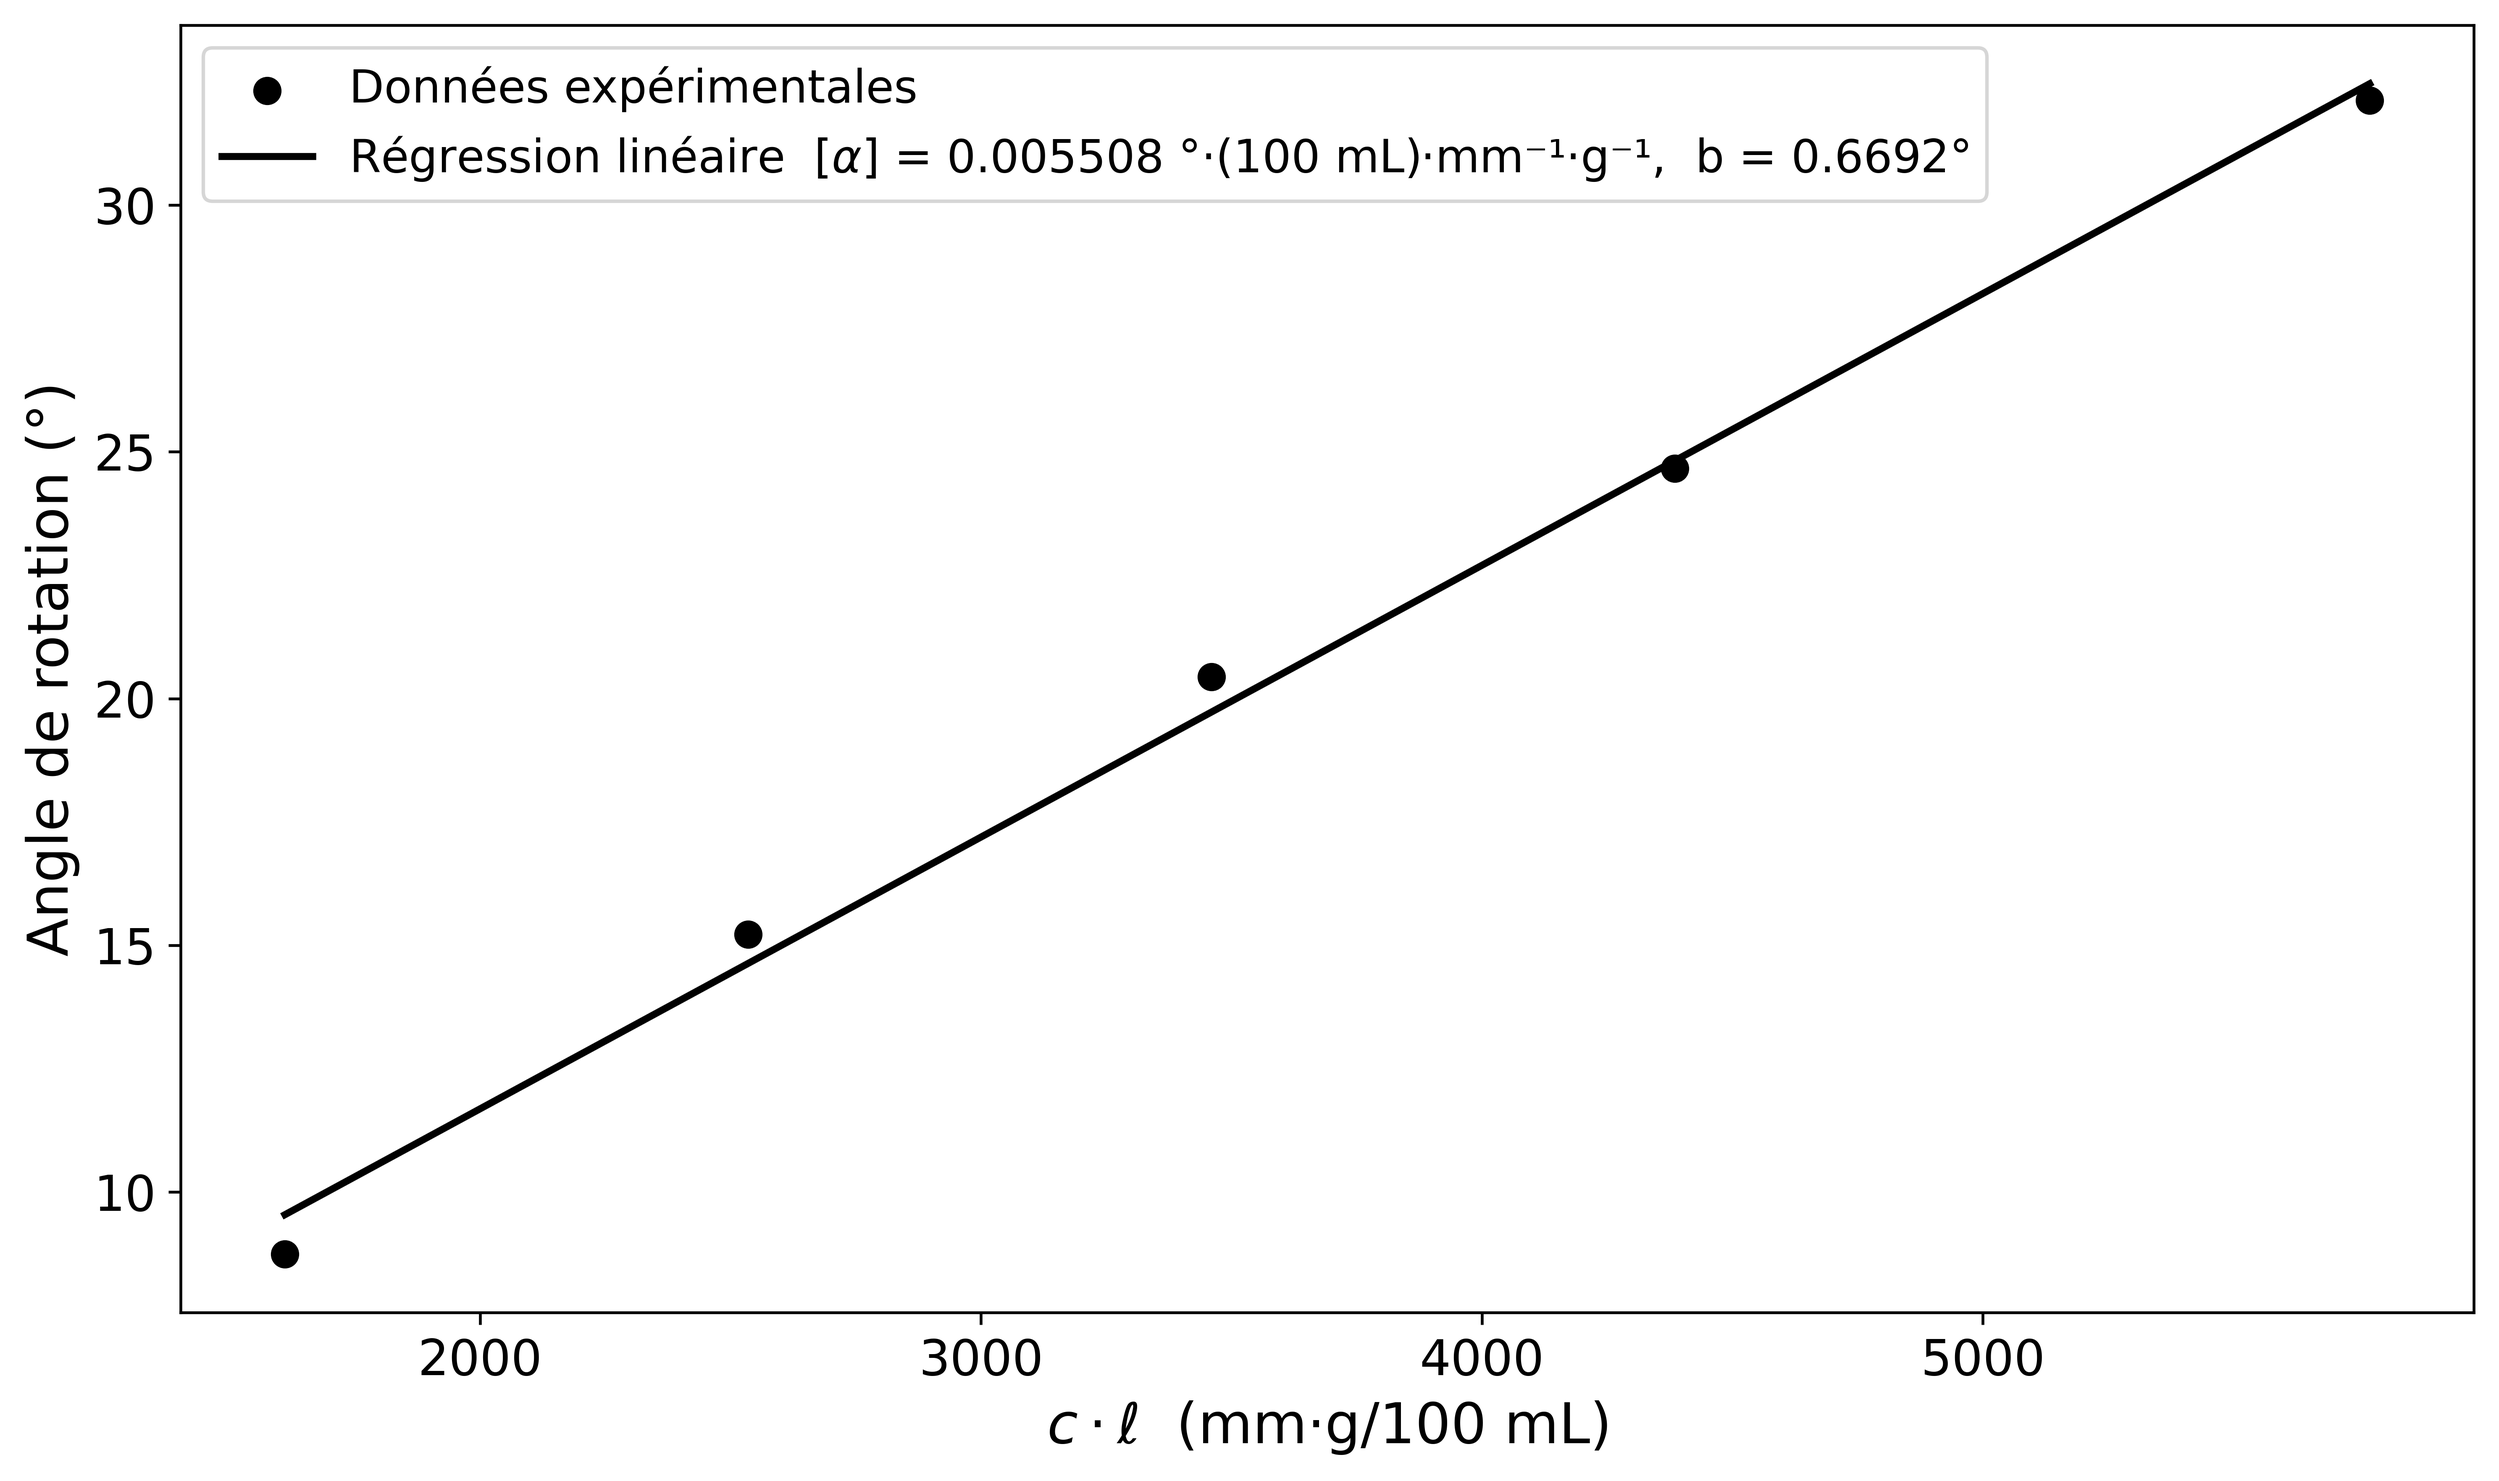
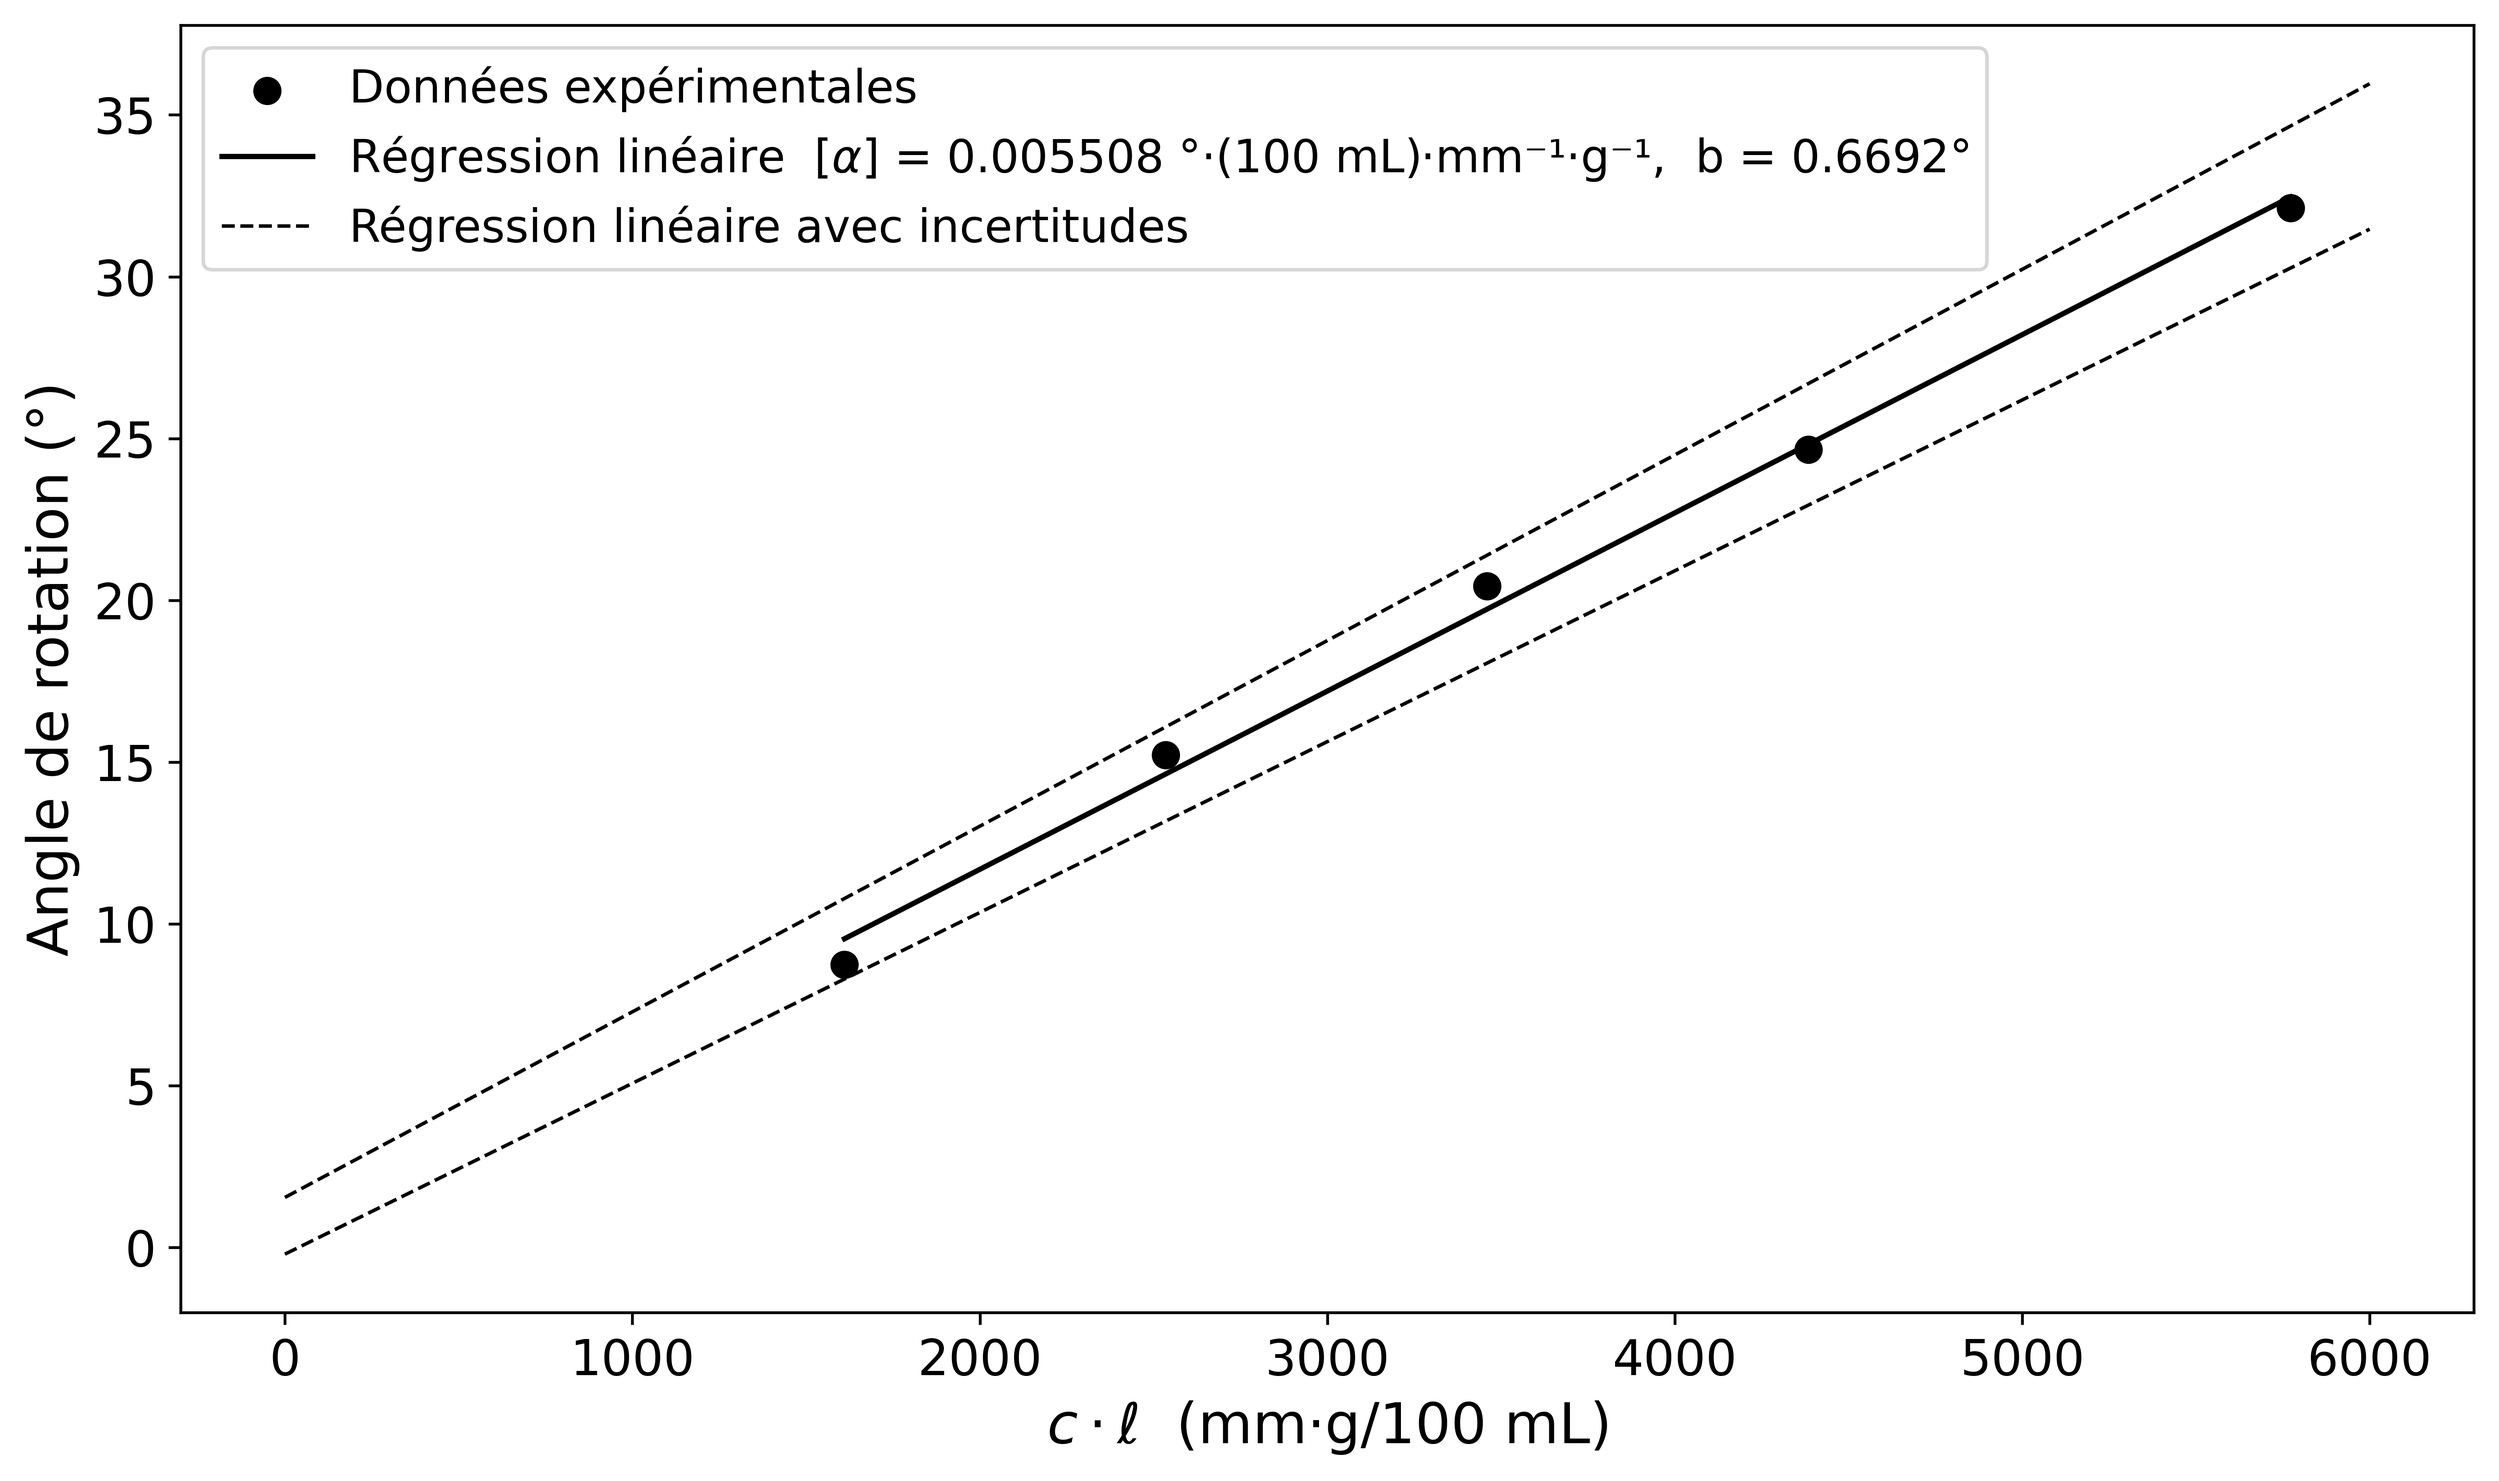
incertitudes linéaries

diff --git a/Projet_2/glucose_moyenne_linéaire.py b/Projet_2/glucose_moyenne_linéaire.py
@@ -24,13 +24,29 @@ sigma_b        = np.sqrt(pcov[1, 1])
 print(f"Pouvoir rotatoire spécifique [α] = {alpha_sp:.6f} ± {sigma_alpha_sp:.6f} °·(100 mL)·mm⁻¹·g⁻¹")
 print(f"Ordonnée à l'origine          b  = {b:.6f} ± {sigma_b:.6f} °")
 
+def reg_min(x):
+    y = (alpha_sp - sigma_alpha_sp) * x + (b - sigma_b)
+    return y
+x_reg_min = np.linspace(0, 6000, 6000)
+y_reg_min = reg_min(x_reg_min)
+
+
+def reg_max(x):
+    y = (alpha_sp + sigma_alpha_sp) * x + (b + sigma_b)
+    return y
+x_reg_max = np.linspace(0, 6000, 6000)
+y_reg_max = reg_max(x_reg_max)
+
+
 cl_fit    = np.linspace(min(cl), max(cl), 100)
 angle_fit = alpha_sp * cl_fit + b
 
 plt.figure(figsize=(10, 6))
 plt.scatter(cl, angle, color='black', s=50, label='Données expérimentales')
-plt.plot(cl_fit, angle_fit, color='black', linestyle='-', linewidth=2,
+plt.plot(cl_fit, angle_fit, color='black', linestyle='-', linewidth=1.5,
          label=f'Régression linéaire  $[\\alpha]$ = {alpha_sp:.6f} °·(100 mL)·mm⁻¹·g⁻¹,  b = {b:.4f}°')
+plt.plot(x_reg_min, y_reg_min, color="black", linestyle='--', linewidth=1, label=f'Régression linéaire avec incertitudes')
+plt.plot(x_reg_max, y_reg_max, color="black", linestyle='--', linewidth=1)
 plt.xlabel(r"$c \cdot \ell$  (mm·g/100 mL)", fontsize=16)
 plt.ylabel("Angle de rotation (°)", fontsize=16)
 plt.tick_params(axis='both', labelsize=14)

diff --git a/Projet_2/fructose_moyenne_linéaire.py b/Projet_2/fructose_moyenne_linéaire.py
@@ -27,10 +27,27 @@ print(f"Ordonnée à l'origine          b  = {b:.6f} ± {sigma_b:.6f} °")
 cl_fit    = np.linspace(min(cl), max(cl), 100)
 angle_fit = alpha_sp * cl_fit + b
 
+
+def reg_min(x):
+    y = (alpha_sp - sigma_alpha_sp) * x + (b - sigma_b)
+    return y
+x_reg_min = np.linspace(0, 6000, 6000)
+y_reg_min = reg_min(x_reg_min)
+
+
+def reg_max(x):
+    y = (alpha_sp + sigma_alpha_sp) * x + (b + sigma_b)
+    return y
+x_reg_max = np.linspace(0, 6000, 6000)
+y_reg_max = reg_max(x_reg_max)
+
+
 plt.figure(figsize=(10, 6))
 plt.scatter(cl, angle, color='black', s=50, label='Données expérimentales')
-plt.plot(cl_fit, angle_fit, color='black', linestyle='-', linewidth=2,
+plt.plot(cl_fit, angle_fit, color='black', linestyle='-', linewidth=1.5,
          label=f'Régression linéaire  $[\\alpha]$ = {alpha_sp:.6f} °·(100 mL)·mm⁻¹·g⁻¹,  b = {b:.4f}°')
+plt.plot(x_reg_min, y_reg_min, color="black", linestyle='--', linewidth=1, label=f'Régression linéaire avec incertitudes')
+plt.plot(x_reg_max, y_reg_max, color="black", linestyle='--', linewidth=1)
 plt.xlabel(f"$c \cdot \ell$  (mm·g/100 mL)", fontsize=16)
 plt.ylabel("Angle de rotation (°)", fontsize=16)
 plt.tick_params(axis='both', labelsize=14)
